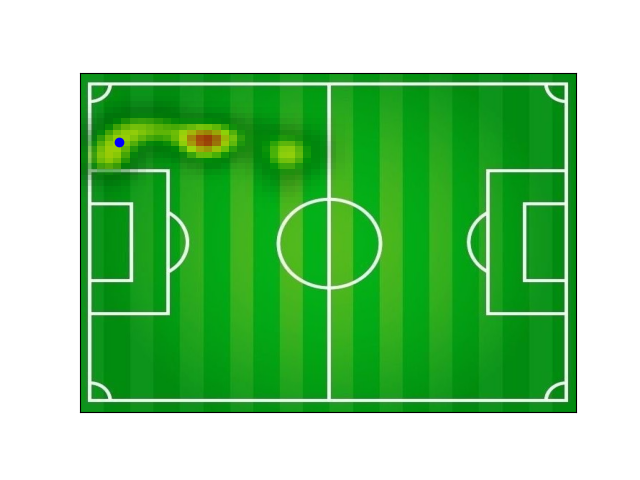
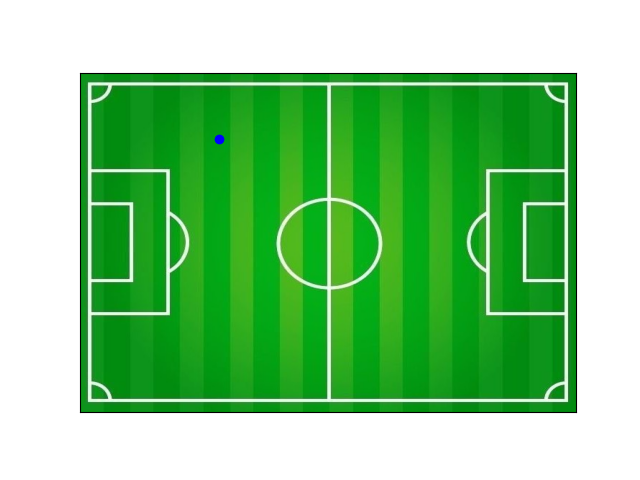
Update HeatMap limpando.

Changed region(s): [[0.125, 0.2188, 0.5312, 0.4062]]

diff --git a/lib/widgets/serial_data_plotter.dart b/lib/widgets/serial_data_plotter.dart
@@ -53,6 +53,8 @@ class _SerialDataPlotterState extends State<SerialDataPlotter> {
   @override
   void initState() {
     super.initState();
+    setNewCoordinates();
+    Provider.of<Manager>(context, listen: false).updateFunc("Metrics");
     _timer = Timer.periodic(const Duration(seconds: 3), (_) {
       setState(() {
         imageCache.clear();
@@ -192,7 +194,6 @@ class _SerialDataPlotterState extends State<SerialDataPlotter> {
     subscription?.cancel();
     subscription = null;
     resetData();
-
     if (port != null && port!.isOpen) {
       port!.close();
       print('Serial port closed!');
@@ -210,7 +211,7 @@ class _SerialDataPlotterState extends State<SerialDataPlotter> {
       print('Broadcast Stream is null!');
       return;
     }
-    setNewCoordinates();
+    // setNewCoordinates();
     subscription = reader!.stream.listen(
       (data) {
         for (var byte in data) {
@@ -317,6 +318,7 @@ class _SerialDataPlotterState extends State<SerialDataPlotter> {
 
   @override
   void dispose() {
+    setNewCoordinates();
     _timer?.cancel();
     reader!.close();
     _stopListening();
